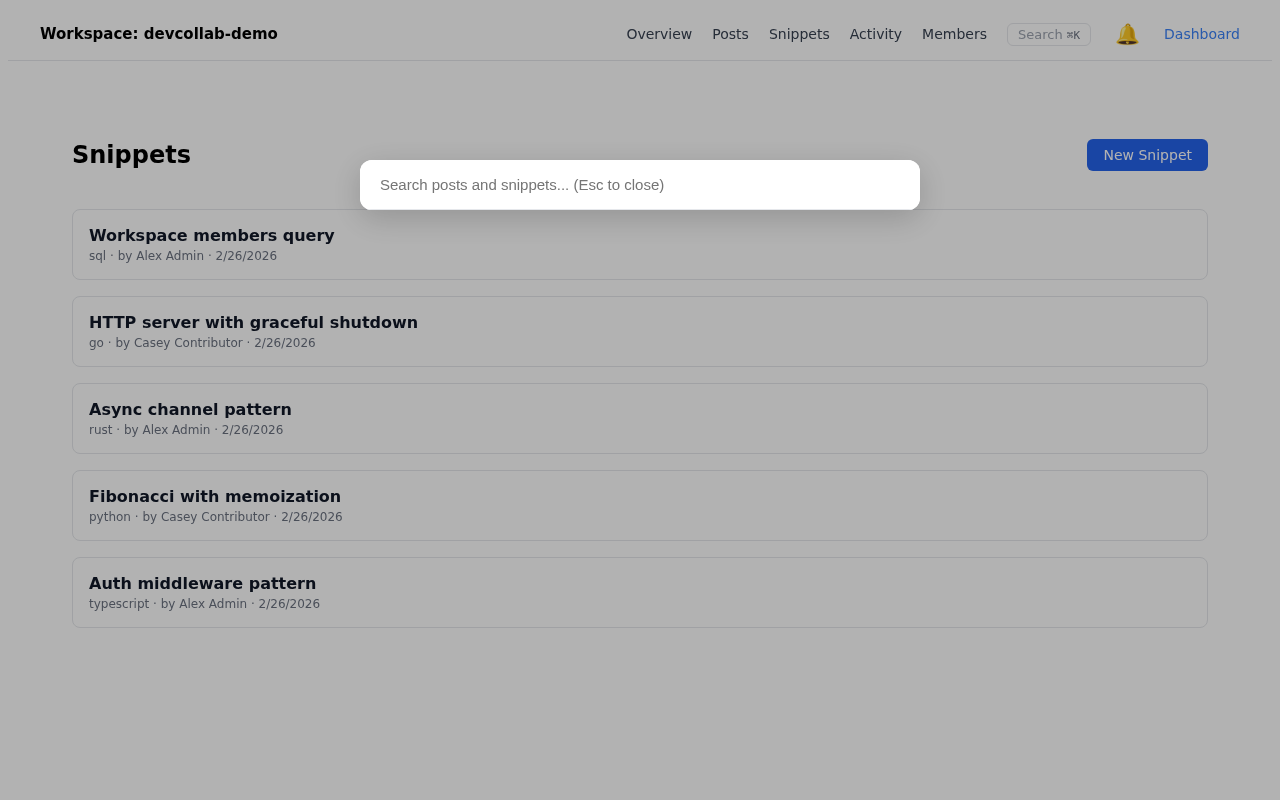
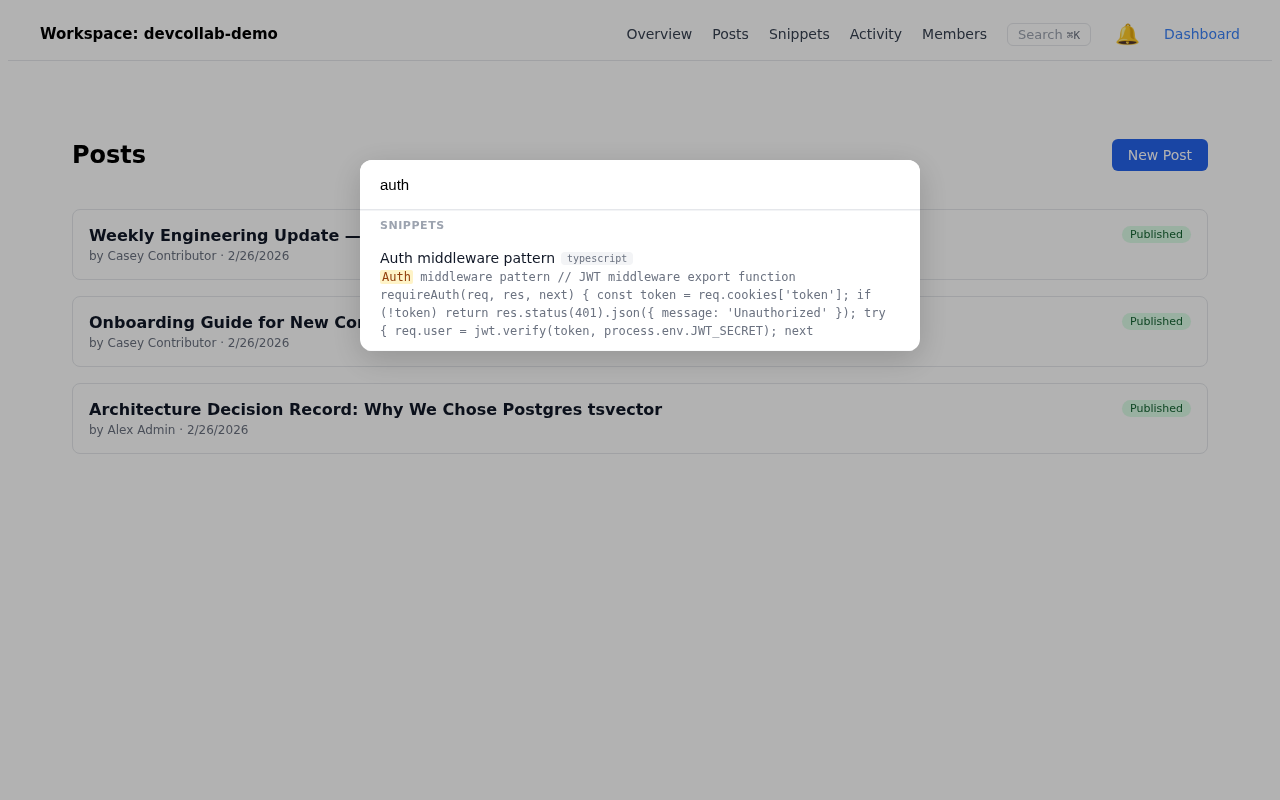
feat(38-02): capture 5 DevCollab workflow screenshots at 1280x800
- devcollab-workspace.png (49KB) — posts feed overview with nav
- devcollab-code-snippet.png (53KB) — Shiki syntax-highlighted TypeScript snippet
- devcollab-thread.png (77KB) — threaded comments with @mention on post detail
- devcollab-search.png (70KB) — Cmd+K search modal open with results
- devcollab-activity.png (74KB) — activity feed with workspace events
- All files: PNG 1280x800, > 10KB, non-interlaced
- Fixed: path resolution (../../ not ../../../) and ID selector logic to exclude /new paths

diff --git a/apps/web/e2e/screenshots/devcollab-capture.ts b/apps/web/e2e/screenshots/devcollab-capture.ts
@@ -2,7 +2,7 @@ import { chromium } from '@playwright/test'
 import * as path from 'path'
 import * as fs from 'fs'
 
-const SCREENSHOTS_DIR = path.resolve(__dirname, '../../../public/screenshots')
+const SCREENSHOTS_DIR = path.resolve(__dirname, '../../public/screenshots')
 const BASE_URL = 'https://devcollab.fernandomillan.me'
 const WORKSPACE_SLUG = 'devcollab-demo'
 
@@ -24,37 +24,45 @@ async function capture() {
   await page.goto(`${BASE_URL}/login`)
   await page.waitForLoadState('networkidle')
 
-  await page.getByLabel('Email').fill('admin@demo.devcollab')
-  await page.getByLabel('Password').fill('Demo1234!')
+  await page.locator('input[type="email"]').fill('admin@demo.devcollab')
+  await page.locator('input[type="password"]').fill('Demo1234!')
   await page.getByRole('button', { name: /sign in/i }).click()
   await page.waitForURL(`${BASE_URL}/w/${WORKSPACE_SLUG}`, { timeout: 15000 })
   console.log(`[Auth] Login successful, on /w/${WORKSPACE_SLUG}`)
 
-  // ---- Helper: get first snippet ID ----
+  // ---- Helper: get first snippet ID (excluding /new) ----
   async function getFirstSnippetId(): Promise<string | null> {
     try {
       await page.goto(`${BASE_URL}/w/${WORKSPACE_SLUG}/snippets`)
       await page.waitForLoadState('networkidle')
-      const snippetLink = page.locator(`a[href*="/w/${WORKSPACE_SLUG}/snippets/"]`).first()
-      const href = await snippetLink.getAttribute('href').catch(() => null)
-      if (!href) return null
-      const match = href.match(/\/snippets\/([^/?#]+)/)
-      return match ? match[1] : null
+      // Get all snippet links, filter out /snippets/new
+      const links = await page.locator(`a[href*="/w/${WORKSPACE_SLUG}/snippets/"]`).all()
+      for (const link of links) {
+        const href = await link.getAttribute('href').catch(() => null)
+        if (!href) continue
+        const match = href.match(/\/snippets\/([^/?#]+)/)
+        if (match && match[1] !== 'new') return match[1]
+      }
+      return null
     } catch {
       return null
     }
   }
 
-  // ---- Helper: get first post ID ----
+  // ---- Helper: get first post ID (excluding /new) ----
   async function getFirstPostId(): Promise<string | null> {
     try {
       await page.goto(`${BASE_URL}/w/${WORKSPACE_SLUG}/posts`)
       await page.waitForLoadState('networkidle')
-      const postLink = page.locator(`a[href*="/w/${WORKSPACE_SLUG}/posts/"]`).first()
-      const href = await postLink.getAttribute('href').catch(() => null)
-      if (!href) return null
-      const match = href.match(/\/posts\/([^/?#]+)/)
-      return match ? match[1] : null
+      // Get all post links, filter out /posts/new
+      const links = await page.locator(`a[href*="/w/${WORKSPACE_SLUG}/posts/"]`).all()
+      for (const link of links) {
+        const href = await link.getAttribute('href').catch(() => null)
+        if (!href) continue
+        const match = href.match(/\/posts\/([^/?#]+)/)
+        if (match && match[1] !== 'new') return match[1]
+      }
+      return null
     } catch {
       return null
     }
